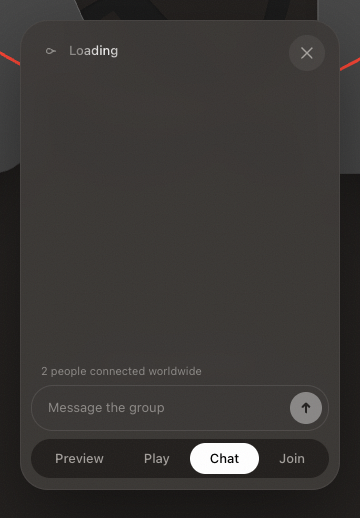
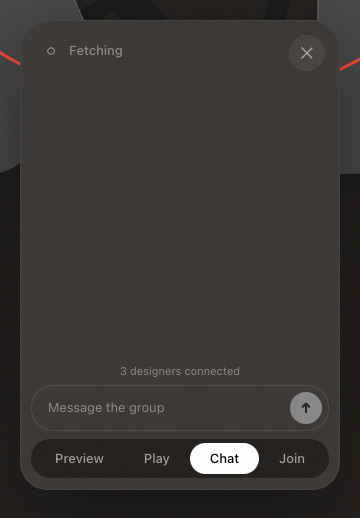
Center connected count, reword to designers connected

Changed region(s): [[0.1222, 0.7104, 0.6722, 0.7413], [0.2139, 0.0927, 0.3361, 0.1236], [0.1222, 0.0927, 0.1528, 0.1236]]

diff --git a/components/dock/ChatTab.tsx b/components/dock/ChatTab.tsx
@@ -252,12 +252,12 @@ export default function ChatTab() {
       </div>
       {/* 10px insets make the composer the same width as the tab pill below */}
       <div className="shrink-0 px-[10px] pb-[58px]">
-        <div className="pb-1.5 pl-2.5 text-[11px] text-[#8B8885]">
+        <div className="pb-1.5 text-center text-[11px] text-[#8B8885]">
           {online === null
             ? "\u00A0"
             : online === 1
-              ? "1 person connected worldwide"
-              : `${online} people connected worldwide`}
+              ? "1 designer connected"
+              : `${online} designers connected`}
         </div>
         <div className="flex items-end gap-2 rounded-[22px] border border-white/[0.1] py-1.5 pl-4 pr-1.5">
           <textarea
